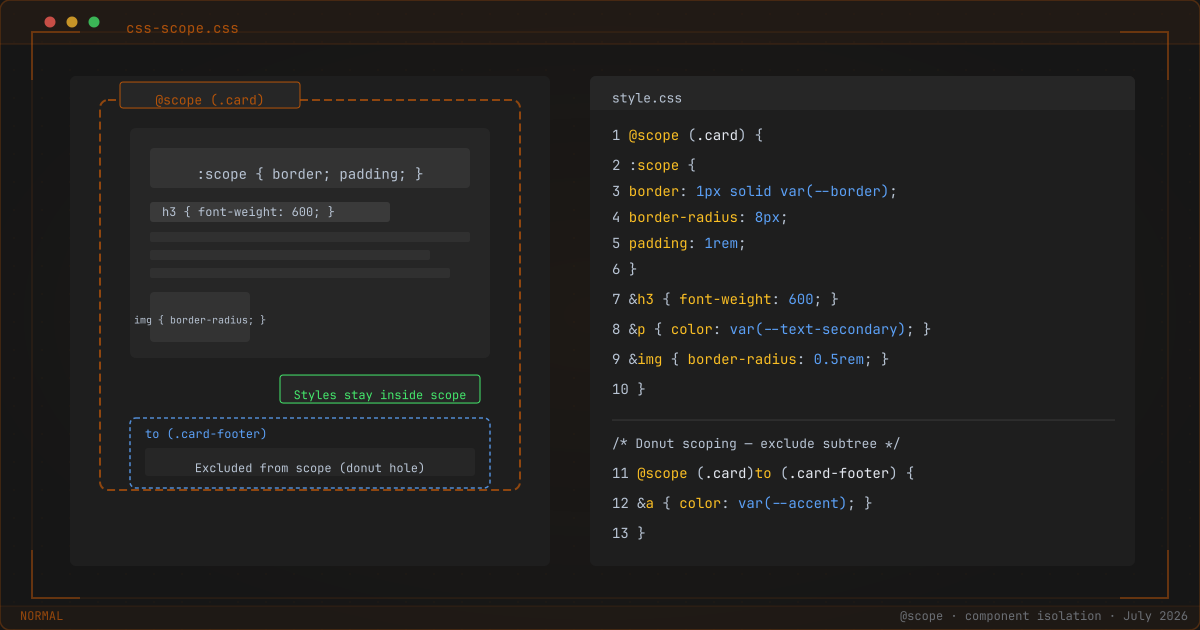
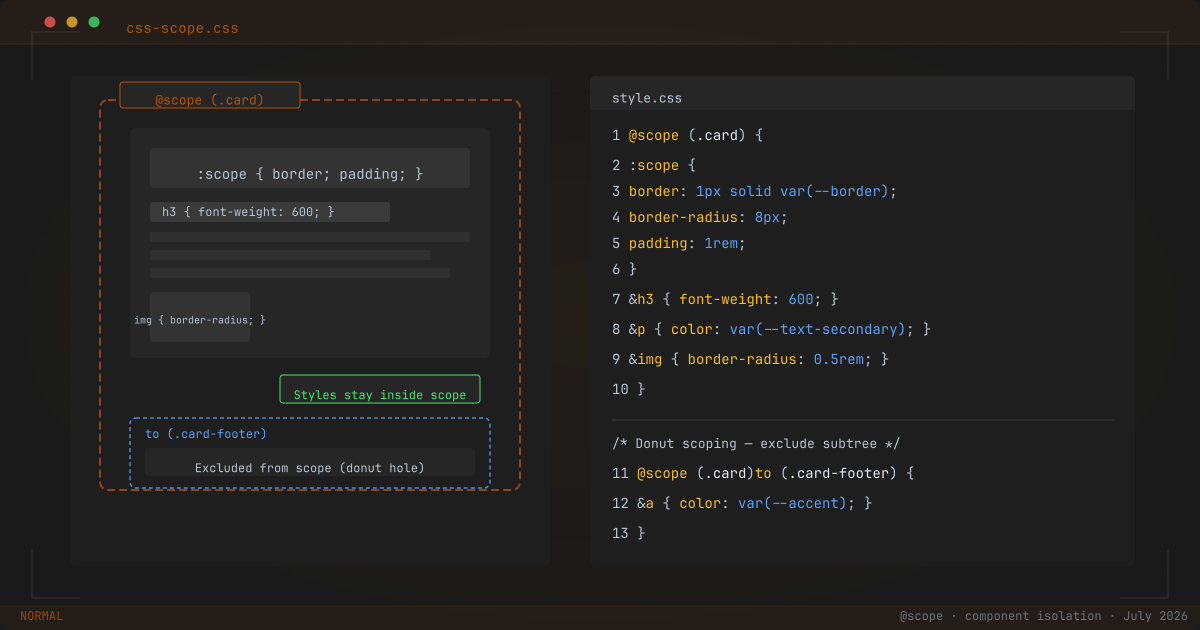
Refine @scope hero & img styling: remove amber borders, neutral frame, theme-aware glow

diff --git a/content/assets/css/index.css b/content/assets/css/index.css
@@ -28,6 +28,9 @@
   --statusbar-text: #2D3748;
   --statusbar-mode: #92400E;
 
+  --img-glow:  0 2px 8px color-mix(in srgb, var(--accent) 15%, transparent),
+               0 0 24px color-mix(in srgb, var(--accent) 6%, transparent);
+
   color-scheme: light dark;
 }
 
@@ -71,7 +74,10 @@ html.no-transition *::before, html.no-transition *::after {
   --error: #EF4444;
   --statusbar-bg: #1E1E1E;
   --statusbar-text: #9ba3b1;
-  --statusbar-mode: #D49050;
+  --statusbar-mode: #E0A868;
+
+  --img-glow:  0 1px 4px color-mix(in srgb, var(--accent) 5%, transparent),
+               0 0 14px color-mix(in srgb, var(--accent) 2%, transparent);
 }
 
 @media (prefers-color-scheme: dark) {
@@ -90,7 +96,10 @@ html.no-transition *::before, html.no-transition *::after {
     --error: #EF4444;
     --statusbar-bg: #1E1E1E;
     --statusbar-text: #9ba3b1;
-    --statusbar-mode: #D49050;
+    --statusbar-mode: #E0A868;
+
+    --img-glow:  0 1px 4px color-mix(in srgb, var(--accent) 5%, transparent),
+                 0 0 14px color-mix(in srgb, var(--accent) 2%, transparent);
   }
 }
 
@@ -555,10 +564,8 @@ article .footnotes p, article .footnotes li { color: inherit; }
 
 
 article img {
-  border: 1px solid color-mix(in srgb, var(--accent) 35%, var(--border));
-  box-shadow:
-    0 2px 8px color-mix(in srgb, var(--accent) 15%, transparent),
-    0 0 24px color-mix(in srgb, var(--accent) 6%, transparent);
+  border: 1px solid var(--border);
+  box-shadow: var(--img-glow);
 }
 
 article p:has(img) { margin-top: 1.5rem; }
